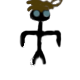
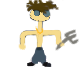
fixed collectibles, made the game true full screen and changed the player image for immersion xd

Changed region(s): [[0.225, 0.125, 1.0, 0.85], [0.325, 0.0, 0.8, 0.125], [0.475, 0.125, 0.5, 0.15]]

diff --git a/so_long.h b/so_long.h
@@ -6,7 +6,7 @@
 /*   By: jidrizi <jidrizi@student.42.fr>            +#+  +:+       +#+        */
 /*                                                +#+#+#+#+#+   +#+           */
 /*   Created: 2024/06/07 16:53:55 by jidrizi           #+#    #+#             */
-/*   Updated: 2024/06/27 14:10:59 by jidrizi          ###   ########.fr       */
+/*   Updated: 2024/06/27 17:11:12 by jidrizi          ###   ########.fr       */
 /*                                                                            */
 /* ************************************************************************** */
 
@@ -25,8 +25,8 @@
 # include "MLX42/MLX42.h"
 
 // MACROS
-# define WIDTH 5120
-# define HEIGHT 2880
+			// # define WIDTH 5120
+			// # define HEIGHT 2880
 # define WALL_PATH "/Users/jidrizi/lol/thanks_for_fish/png/wall.png"
 # define FLOOR_PATH "/Users/jidrizi/lol/thanks_for_fish/png/floor.png"
 # define EXIT_PATH "/Users/jidrizi/lol/thanks_for_fish/png/exit.png"
@@ -39,6 +39,8 @@ struct s_mlx_stuff{
 	int			player_x;
 	int 		player_y;
 	mlx_image_t	*wall;
+	mlx_image_t	*exit;
+	mlx_image_t	*collectible;
 };
 // PROTOTYPES
 int			check_ber(char *arg);
@@ -53,5 +55,7 @@ int			check_if_rectangle_map(char *map_file);
 int			wall_frame_check(char *map_file);
 int			valid_map_path_check(char *map_file, int position);
 void		move_player_hook(mlx_key_data_t keydata,void *param);
-int			check_if_going_to_walls(int player_x, int player_y, mlx_image_t *wall_image);
+int			check_if_going_to_walls(int player_x, int player_y,
+			mlx_image_t *wall_image);
+int			*finder_of_width_height(char *map_file);
 #endif

diff --git a/so_long.c b/so_long.c
@@ -6,7 +6,7 @@
 /*   By: jidrizi <jidrizi@student.42.fr>            +#+  +:+       +#+        */
 /*                                                +#+#+#+#+#+   +#+           */
 /*   Created: 2024/06/07 16:56:34 by jidrizi           #+#    #+#             */
-/*   Updated: 2024/06/25 19:55:18 by jidrizi          ###   ########.fr       */
+/*   Updated: 2024/06/27 16:32:32 by jidrizi          ###   ########.fr       */
 /*                                                                            */
 /* ************************************************************************** */
 
@@ -71,13 +71,15 @@ char	*get_map(char *arg1)
 
 int	put_window(char *arg1)
 {
-	char	*map;
-	struct s_mlx_stuff s_stuff;
+	char				*map;
+	struct s_mlx_stuff	s_stuff;
+	int 				*for_window;
 
-	s_stuff.window = mlx_init(WIDTH, HEIGHT, "so_long", true);
 	map = get_map(arg1);
 	if (!map)
 		return (1);
+	for_window = finder_of_width_height(map);
+	s_stuff.window = mlx_init(for_window[0],for_window[1], "so_long", true);
 	if (check_if_rectangle_map(map) == EXIT_FAILURE)
 	{
 		costum_free((void **)&map);

diff --git a/so_long_utils.c b/so_long_utils.c
@@ -6,7 +6,7 @@
 /*   By: jidrizi <jidrizi@student.42.fr>            +#+  +:+       +#+        */
 /*                                                +#+#+#+#+#+   +#+           */
 /*   Created: 2024/06/15 13:55:29 by jidrizi           #+#    #+#             */
-/*   Updated: 2024/06/27 15:57:28 by jidrizi          ###   ########.fr       */
+/*   Updated: 2024/06/27 17:15:42 by jidrizi          ###   ########.fr       */
 /*                                                                            */
 /* ************************************************************************** */
 
@@ -88,5 +88,27 @@ int	check_if_going_to_walls(int player_x, int player_y, mlx_image_t *wall_image)
 		}
 	}
 	return (0);
+}
+int	*finder_of_width_height(char *map_file)
+{
+	int width;
+	int pos; //position
+	int height;
+	
+	width = 0;
+	height = 0;
+	while(map_file[width] != '\n')
+		width++;
+	height++;	
+	pos = width;
+	while(map_file[pos])
+	{
+		if (map_file[pos] == '\n')
+			height++;
+		pos++;
+	}
+	height = height * 100;
+	width = width * 100;
+	return ((int[2]){width, height});
 }
 

diff --git a/so_long_mapstuff.c b/so_long_mapstuff.c
@@ -19,12 +19,15 @@ mlx_image_t	*put_png_in_map(char *map_file, mlx_t *window_file, struct s_mlx_stu
 	int				y;
 	mlx_image_t		*player;
 	mlx_texture_t	*wall_texture;
+	mlx_texture_t	*collectible_texture;
 	
 	x = 0;
 	y = 0;
 	letter = 0;
 	wall_texture = mlx_load_png(WALL_PATH);
+	collectible_texture = mlx_load_png(COLLECT_PATH);
 	s_stuff->wall = mlx_texture_to_image(window_file, wall_texture);
+	s_stuff->collectible = mlx_texture_to_image(window_file, collectible_texture);
 	mlx_delete_texture(wall_texture);
 	while (map_file[letter])
 	{
@@ -41,7 +44,7 @@ mlx_image_t	*put_png_in_map(char *map_file, mlx_t *window_file, struct s_mlx_stu
 		if (map_file[letter] == 'C')
 		{
 			print_png(window_file, x, y, FLOOR_PATH);
-			print_png(window_file, x, y, COLLECT_PATH);
+			mlx_image_to_window(window_file, s_stuff->collectible , x, y);
 			x = x + 100;
 		}
 		if (map_file[letter] == 'E')
